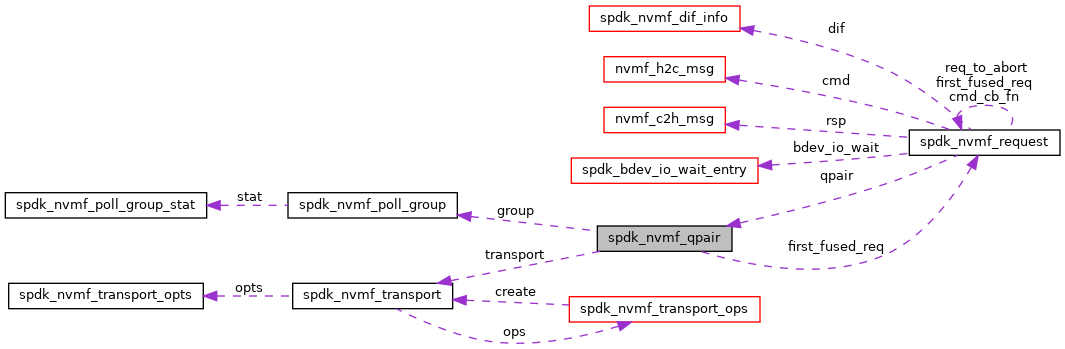
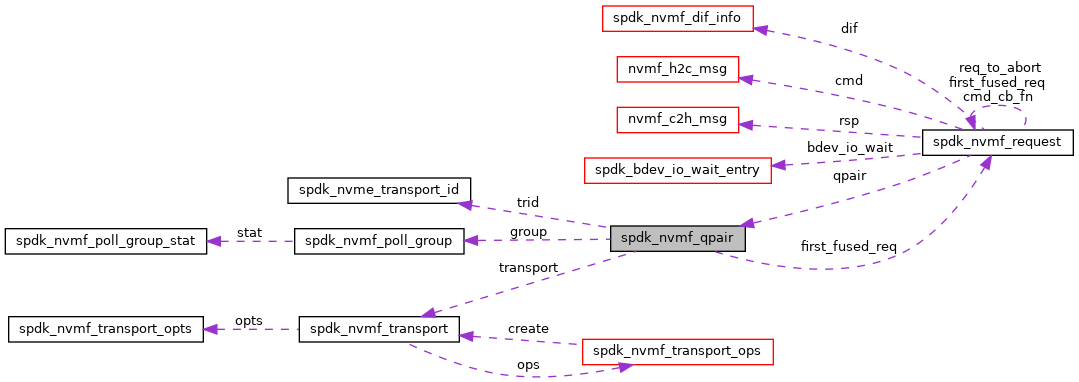
doc: update to 4aa0bb676b05569b9ed54e631dd266e3dfc9dedc

diff --git a/doc/structspdk__nvmf__qpair.html b/doc/structspdk__nvmf__qpair.html
@@ -153,17 +153,18 @@ Collaboration diagram for spdk_nvmf_qpair:</div>
 <div class="dyncontent">
 <div class="center"><img src="structspdk__nvmf__qpair__coll__graph.png" border="0" usemap="#spdk__nvmf__qpair_coll__map" alt="Collaboration graph"/></div>
 <map name="spdk__nvmf__qpair_coll__map" id="spdk__nvmf__qpair_coll__map">
-<area shape="rect"  title=" " alt="" coords="597,225,732,252"/>
-<area shape="rect"  href="structspdk__nvmf__request.html" title=" " alt="" coords="909,129,1060,156"/>
-<area shape="rect"  href="structspdk__nvmf__poll__group.html" title=" " alt="" coords="288,192,457,219"/>
-<area shape="rect"  href="structspdk__nvmf__poll__group__stat.html" title=" " alt="" coords="5,192,207,219"/>
-<area shape="rect"  href="structspdk__nvmf__dif__info.html" title=" " alt="" coords="589,5,740,32"/>
-<area shape="rect"  href="unionnvmf__h2c__msg.html" title=" " alt="" coords="604,56,725,83"/>
-<area shape="rect"  href="unionnvmf__c2h__msg.html" title=" " alt="" coords="604,107,725,133"/>
-<area shape="rect"  href="structspdk__bdev__io__wait__entry.html" title="Structure to register a callback when an spdk_bdev_io becomes available." alt="" coords="571,157,758,184"/>
-<area shape="rect"  href="structspdk__nvmf__transport.html" title=" " alt="" coords="293,283,453,309"/>
-<area shape="rect"  href="structspdk__nvmf__transport__ops.html" title=" " alt="" coords="569,296,760,323"/>
-<area shape="rect"  href="structspdk__nvmf__transport__opts.html" title=" " alt="" coords="9,283,203,309"/>
+<area shape="rect"  title=" " alt="" coords="611,225,745,252"/>
+<area shape="rect"  href="structspdk__nvmf__request.html" title=" " alt="" coords="923,129,1073,156"/>
+<area shape="rect"  href="structspdk__nvme__transport__id.html" title="NVMe transport identifier." alt="" coords="288,177,471,204"/>
+<area shape="rect"  href="structspdk__nvmf__poll__group.html" title=" " alt="" coords="295,228,464,255"/>
+<area shape="rect"  href="structspdk__nvmf__poll__group__stat.html" title=" " alt="" coords="5,228,207,255"/>
+<area shape="rect"  href="structspdk__nvmf__dif__info.html" title=" " alt="" coords="603,5,753,32"/>
+<area shape="rect"  href="unionnvmf__h2c__msg.html" title=" " alt="" coords="617,56,739,83"/>
+<area shape="rect"  href="unionnvmf__c2h__msg.html" title=" " alt="" coords="617,107,739,133"/>
+<area shape="rect"  href="structspdk__bdev__io__wait__entry.html" title="Structure to register a callback when an spdk_bdev_io becomes available." alt="" coords="585,157,771,184"/>
+<area shape="rect"  href="structspdk__nvmf__transport.html" title=" " alt="" coords="299,316,459,343"/>
+<area shape="rect"  href="structspdk__nvmf__transport__ops.html" title=" " alt="" coords="583,339,773,365"/>
+<area shape="rect"  href="structspdk__nvmf__transport__opts.html" title=" " alt="" coords="9,316,203,343"/>
 </map>
 <center><span class="legend">[<a target="top" href="graph_legend.html">legend</a>]</span></center></div>
 <table class="memberdecls">
@@ -196,6 +197,9 @@ struct spdk_nvmf_ctrlr *&#160;</td><td class="memItemRight" valign="bottom"><b>c
 <tr class="memitem:a993b86bef0d64d282753f924cdb6de02"><td class="memItemLeft" align="right" valign="top"><a id="a993b86bef0d64d282753f924cdb6de02"></a>
 struct <a class="el" href="structspdk__nvmf__poll__group.html">spdk_nvmf_poll_group</a> *&#160;</td><td class="memItemRight" valign="bottom"><b>group</b></td></tr>
 <tr class="separator:a993b86bef0d64d282753f924cdb6de02"><td class="memSeparator" colspan="2">&#160;</td></tr>
+<tr class="memitem:a73528585c34571896b7cdf5cc75e5ab9"><td class="memItemLeft" align="right" valign="top"><a id="a73528585c34571896b7cdf5cc75e5ab9"></a>
+const struct <a class="el" href="structspdk__nvme__transport__id.html">spdk_nvme_transport_id</a> *&#160;</td><td class="memItemRight" valign="bottom"><b>trid</b></td></tr>
+<tr class="separator:a73528585c34571896b7cdf5cc75e5ab9"><td class="memSeparator" colspan="2">&#160;</td></tr>
 <tr class="memitem:aecc6801664b3940edae8ee58e8438c33"><td class="memItemLeft" align="right" valign="top"><a id="aecc6801664b3940edae8ee58e8438c33"></a>
 uint16_t&#160;</td><td class="memItemRight" valign="bottom"><b>qid</b></td></tr>
 <tr class="separator:aecc6801664b3940edae8ee58e8438c33"><td class="memSeparator" colspan="2">&#160;</td></tr>

diff --git a/doc/structspdk__nvmf__request.html b/doc/structspdk__nvmf__request.html
@@ -153,8 +153,8 @@ Collaboration diagram for spdk_nvmf_request:</div>
 <div class="dyncontent">
 <div class="center"><img src="structspdk__nvmf__request__coll__graph.png" border="0" usemap="#spdk__nvmf__request_coll__map" alt="Collaboration graph"/></div>
 <map name="spdk__nvmf__request_coll__map" id="spdk__nvmf__request_coll__map">
-<area shape="rect"  title=" " alt="" coords="716,312,867,339"/>
-<area shape="rect"  href="structspdk__nvmf__qpair.html" title=" " alt="" coords="1025,223,1160,249"/>
+<area shape="rect"  title=" " alt="" coords="723,312,873,339"/>
+<area shape="rect"  href="structspdk__nvmf__qpair.html" title=" " alt="" coords="1039,193,1173,220"/>
 <area shape="rect"  href="structspdk__nvmf__dif__info.html" title=" " alt="" coords="399,68,550,95"/>
 <area shape="rect"  href="structspdk__dif__ctx.html" title="DIF context information." alt="" coords="69,5,173,32"/>
 <area shape="rect"  href="unionnvmf__h2c__msg.html" title=" " alt="" coords="414,209,535,236"/>
@@ -167,8 +167,9 @@ Collaboration diagram for spdk_nvmf_request:</div>
 <area shape="rect"  href="structspdk__nvme__cpl.html" title="Completion queue entry." alt="" coords="59,340,182,367"/>
 <area shape="rect"  href="structspdk__nvmf__fabric__prop__get__rsp.html" title=" " alt="" coords="33,391,208,433"/>
 <area shape="rect"  href="structspdk__nvmf__fabric__connect__rsp.html" title=" " alt="" coords="9,457,232,484"/>
-<area shape="rect"  href="structspdk__nvmf__poll__group.html" title=" " alt="" coords="707,143,876,169"/>
-<area shape="rect"  href="structspdk__nvmf__transport.html" title=" " alt="" coords="711,193,871,220"/>
+<area shape="rect"  href="structspdk__nvme__transport__id.html" title="NVMe transport identifier." alt="" coords="707,92,889,119"/>
+<area shape="rect"  href="structspdk__nvmf__poll__group.html" title=" " alt="" coords="713,143,883,169"/>
+<area shape="rect"  href="structspdk__nvmf__transport.html" title=" " alt="" coords="718,193,878,220"/>
 <area shape="rect"  href="structspdk__bdev__io__wait__entry.html" title="Structure to register a callback when an spdk_bdev_io becomes available." alt="" coords="381,457,568,484"/>
 <area shape="rect"  href="structspdk__bdev.html" title=" " alt="" coords="75,508,167,535"/>
 </map>

diff --git a/doc/navtreeindex20.js b/doc/navtreeindex20.js
@@ -135,6 +135,7 @@ var NAVTREEINDEX20 =
 "structspdk__nvmf__qpair.html#a44e9be1f9f7b8607613f1caee777d9f9":[12,0,218,9],
 "structspdk__nvmf__qpair.html#a598e955b75f6ca4576fdad98c43e6487":[12,0,218,7],
 "structspdk__nvmf__qpair.html#a68b1d54cc3ea7e337043f4dabfa9b859":[12,0,218,10],
+"structspdk__nvmf__qpair.html#a73528585c34571896b7cdf5cc75e5ab9":[12,0,218,13],
 "structspdk__nvmf__qpair.html#a993b86bef0d64d282753f924cdb6de02":[12,0,218,5],
 "structspdk__nvmf__qpair.html#abb43234094d4e8bf33c1868563e710dc":[12,0,218,3],
 "structspdk__nvmf__qpair.html#ad96a9ac0798e15ef97e0890d3aabd591":[12,0,218,11],
@@ -248,6 +249,5 @@ var NAVTREEINDEX20 =
 "structspdk__nvmf__transport__opts.html#a7e6e60442ef1d45efab0e6159d060a8e":[12,0,230,7],
 "structspdk__nvmf__transport__opts.html#a84d1741f0b23e6b519085a4efc2b18c9":[12,0,230,2],
 "structspdk__nvmf__transport__opts.html#a90f2c6dd7e963201cbe0e625b4599ee4":[12,0,230,11],
-"structspdk__nvmf__transport__opts.html#aa4f37cf3674a2bf984fdb9b63cc30223":[12,0,230,3],
-"structspdk__nvmf__transport__opts.html#aa6c3986bff2dcd3d5cc5b89616e03d8b":[12,0,230,10]
+"structspdk__nvmf__transport__opts.html#aa4f37cf3674a2bf984fdb9b63cc30223":[12,0,230,3]
 };

diff --git a/doc/navtreedata.js b/doc/navtreedata.js
@@ -88,11 +88,11 @@ var NAVTREEINDEX =
 "structspdk__nvme__ns__data.html#a43ff71a6cf23d600c665e1003189fbd7",
 "structspdk__nvme__tcp__ic__req.html#a8fca1ea0b67c1f0929a4fbc582bd1fdc",
 "structspdk__nvmf__fc__frame__hdr.html#a10e9291432939e1e799d6153c1b6514e",
-"structspdk__nvmf__transport__opts.html#ab85a4ce19153bc2ef4c2ee96a89ccdce",
-"structspdk__reduce__backing__dev.html#a59745a0da2cf2bcf55bd19009cc093ff",
-"structspdk__trace__tpoint.html#a317eccf6a1a97bcaa0fb21002fe174ce",
-"unionspdk__nvme__cmd__cdw10.html#a9ceb2920f55b497aedad7e3c4c2eb399",
-"util_8h.html#ace0946954cf4fed6e4f3b7f87180f984"
+"structspdk__nvmf__transport__opts.html#aa6c3986bff2dcd3d5cc5b89616e03d8b",
+"structspdk__reduce__backing__dev.html#a3bbbe463964804c1289bd3876ff262fe",
+"structspdk__trace__tpoint.html#a0f01e931e5212379d1720697cea4525f",
+"unionspdk__nvme__cmd__cdw10.html#a9b4665a3176a2fd321e02fed041151e4",
+"util_8h.html#ac1fbd59e0e9f73e71f416385d606cc52"
 ];
 
 var SYNCONMSG = 'click to disable panel synchronisation';

diff --git a/doc/navtreeindex21.js b/doc/navtreeindex21.js
@@ -1,5 +1,6 @@
 var NAVTREEINDEX21 =
 {
+"structspdk__nvmf__transport__opts.html#aa6c3986bff2dcd3d5cc5b89616e03d8b":[12,0,230,10],
 "structspdk__nvmf__transport__opts.html#ab85a4ce19153bc2ef4c2ee96a89ccdce":[12,0,230,4],
 "structspdk__nvmf__transport__opts.html#ac029aacb2caf552303ef1cc7f51f7bb9":[12,0,230,14],
 "structspdk__nvmf__transport__opts.html#ae21e50b3980d7d03575b8394f9694b13":[12,0,230,15],
@@ -248,6 +249,5 @@ var NAVTREEINDEX21 =
 "structspdk__pci__id.html#ae1f6dd7e42b4203d397b154fe1af2ed8":[12,0,256,4],
 "structspdk__pci__id.html#aedf53a294bbe914233d7ba3f00b20874":[12,0,256,2],
 "structspdk__reduce__backing__dev.html":[12,0,257],
-"structspdk__reduce__backing__dev.html#a0811da1e615e6a31cad4810e8327cfbe":[12,0,257,3],
-"structspdk__reduce__backing__dev.html#a3bbbe463964804c1289bd3876ff262fe":[12,0,257,4]
+"structspdk__reduce__backing__dev.html#a0811da1e615e6a31cad4810e8327cfbe":[12,0,257,3]
 };

diff --git a/doc/navtreeindex23.js b/doc/navtreeindex23.js
@@ -1,5 +1,6 @@
 var NAVTREEINDEX23 =
 {
+"structspdk__trace__tpoint.html#a0f01e931e5212379d1720697cea4525f":[12,0,290,5],
 "structspdk__trace__tpoint.html#a317eccf6a1a97bcaa0fb21002fe174ce":[12,0,290,7],
 "structspdk__trace__tpoint.html#a36b0a929e3dc31f1a224ee53858cb04b":[12,0,290,0],
 "structspdk__trace__tpoint.html#a8e1de5df4cbab70286084659f2143a62":[12,0,290,1],
@@ -248,6 +249,5 @@ var NAVTREEINDEX23 =
 "unionspdk__nvme__cmd__cdw10.html#a78e368a569df77f727c04f8001d8c622":[12,0,94,8],
 "unionspdk__nvme__cmd__cdw10.html#a853c258067093fc61cd390c8982eb1b6":[12,0,94,2],
 "unionspdk__nvme__cmd__cdw10.html#a8efd79a496dc64dc303836c716853ace":[12,0,94,15],
-"unionspdk__nvme__cmd__cdw10.html#a94d8b96bde872df0a60277f3fe924081":[12,0,94,25],
-"unionspdk__nvme__cmd__cdw10.html#a9b4665a3176a2fd321e02fed041151e4":[12,0,94,10]
+"unionspdk__nvme__cmd__cdw10.html#a94d8b96bde872df0a60277f3fe924081":[12,0,94,25]
 };

diff --git a/doc/navtreeindex22.js b/doc/navtreeindex22.js
@@ -1,5 +1,6 @@
 var NAVTREEINDEX22 =
 {
+"structspdk__reduce__backing__dev.html#a3bbbe463964804c1289bd3876ff262fe":[12,0,257,4],
 "structspdk__reduce__backing__dev.html#a59745a0da2cf2bcf55bd19009cc093ff":[12,0,257,0],
 "structspdk__reduce__backing__dev.html#aa5d23ba4f13d91c3c79a2cd99f61edc7":[12,0,257,1],
 "structspdk__reduce__backing__dev.html#ac5a48d92ad0a0c27f5b443a641e0f264":[12,0,257,2],
@@ -248,6 +249,5 @@ var NAVTREEINDEX22 =
 "structspdk__trace__register__fn.html#a3afb510e42a1289799babd284ea31cbc":[12,0,289,0],
 "structspdk__trace__register__fn.html#a8109be7fda1144908e5a3b67293ab5fb":[12,0,289,2],
 "structspdk__trace__register__fn.html#ab43c36349f9748fe3a0c45122e85a43b":[12,0,289,3],
-"structspdk__trace__tpoint.html":[12,0,290],
-"structspdk__trace__tpoint.html#a0f01e931e5212379d1720697cea4525f":[12,0,290,5]
+"structspdk__trace__tpoint.html":[12,0,290]
 };

diff --git a/doc/navtreeindex24.js b/doc/navtreeindex24.js
@@ -1,5 +1,6 @@
 var NAVTREEINDEX24 =
 {
+"unionspdk__nvme__cmd__cdw10.html#a9b4665a3176a2fd321e02fed041151e4":[12,0,94,10],
 "unionspdk__nvme__cmd__cdw10.html#a9ceb2920f55b497aedad7e3c4c2eb399":[12,0,94,28],
 "unionspdk__nvme__cmd__cdw10.html#a9e587eb2c651a001e8acf1a32271501b":[12,0,94,13],
 "unionspdk__nvme__cmd__cdw10.html#aa4d409e3326267e1b14cb09b7398b99b":[12,0,94,4],
@@ -248,6 +249,5 @@ var NAVTREEINDEX24 =
 "util_8h.html#a837456da8a8d13c0f84c1b362acfe482":[13,0,54,8],
 "util_8h.html#a9d8a81dd9f89050cdc2de023d10f1d31":[13,0,54,16],
 "util_8h.html#aaa368537876ed0aee8ae810a240b2dfb":[13,0,54,10],
-"util_8h.html#ac14f2b75522d72317def37370adffca1":[13,0,54,4],
-"util_8h.html#ac1fbd59e0e9f73e71f416385d606cc52":[13,0,54,9]
+"util_8h.html#ac14f2b75522d72317def37370adffca1":[13,0,54,4]
 };

diff --git a/doc/structspdk__nvmf__qpair.js b/doc/structspdk__nvmf__qpair.js
@@ -12,5 +12,6 @@ var structspdk__nvmf__qpair =
     [ "state", "structspdk__nvmf__qpair.html#a44e9be1f9f7b8607613f1caee777d9f9", null ],
     [ "state_cb", "structspdk__nvmf__qpair.html#a68b1d54cc3ea7e337043f4dabfa9b859", null ],
     [ "state_cb_arg", "structspdk__nvmf__qpair.html#ad96a9ac0798e15ef97e0890d3aabd591", null ],
-    [ "transport", "structspdk__nvmf__qpair.html#add3a2107b9b45be02b7319571960e5d4", null ]
+    [ "transport", "structspdk__nvmf__qpair.html#add3a2107b9b45be02b7319571960e5d4", null ],
+    [ "trid", "structspdk__nvmf__qpair.html#a73528585c34571896b7cdf5cc75e5ab9", null ]
 ];

diff --git a/doc/changelog.html b/doc/changelog.html
@@ -149,6 +149,8 @@ $(document).ready(function(){initNavTree('changelog.html','');});
 v20.10: (Upcoming Release)</h1>
 <h2>bdev</h2>
 <p>A new API was added <code>bdev_examine_bdev</code> that allows users to examine a bdev explicitly. It can be used only if auto_examine is disabled.</p>
+<h2>dpdk</h2>
+<p>Updated DPDK submodule to DPDK 20.08.</p>
 <h2>isa-l</h2>
 <p>Updated ISA-L submodule to v2.29.0.</p>
 <h2>ocf</h2>

diff --git a/doc/navtreeindex25.js b/doc/navtreeindex25.js
@@ -1,5 +1,6 @@
 var NAVTREEINDEX25 =
 {
+"util_8h.html#ac1fbd59e0e9f73e71f416385d606cc52":[13,0,54,9],
 "util_8h.html#ace0946954cf4fed6e4f3b7f87180f984":[13,0,54,5],
 "util_8h.html#ada6ce4c7e52b50a49415fbbaaf2a73f5":[13,0,54,21],
 "util_8h.html#afb0c0f2282517becd79ba3f60768b6c4":[13,0,54,2],
